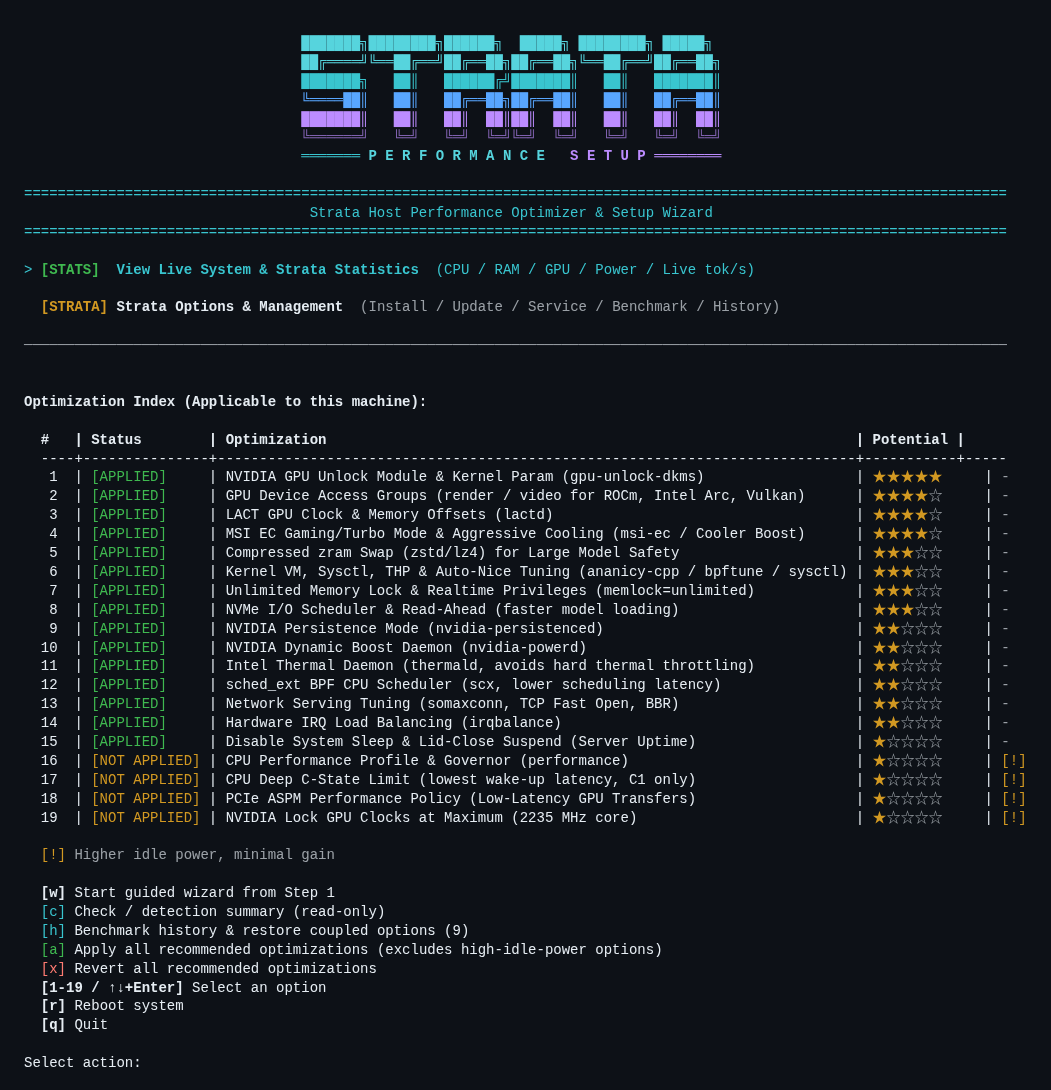
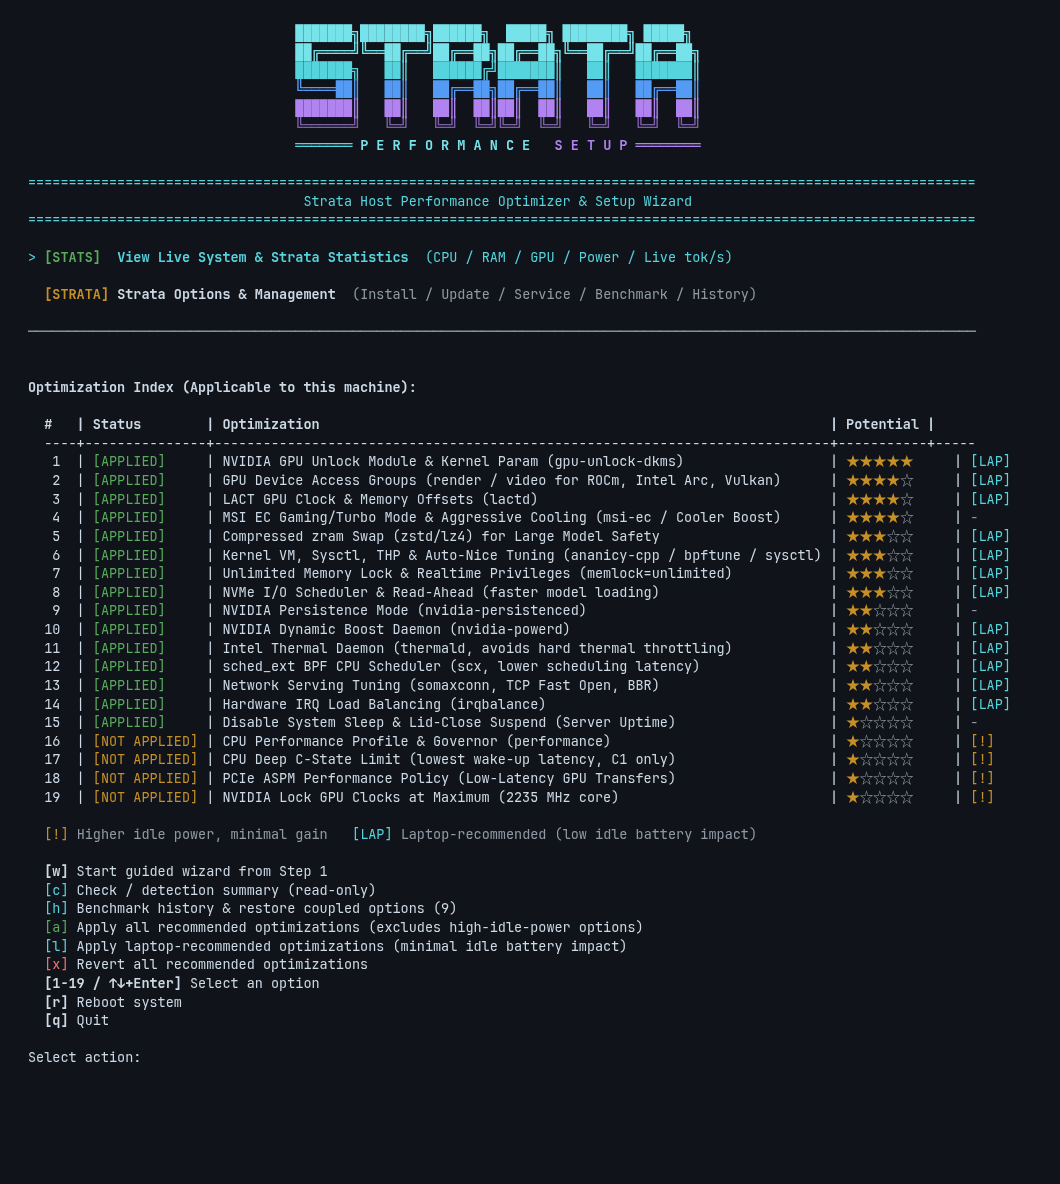
v1.3.3: Add laptop-recommended optimization mode ([l] / [LAP]) and out-of-scope revert prompt

diff --git a/documentation/using-the-wizard.md b/documentation/using-the-wizard.md
@@ -8,6 +8,7 @@ Once launched, the main index lists `[STATS]` (live system & Strata metrics), `[
 - Press `c` on the index to view the read-only **Check / detection summary** inside the TUI (same OS, hardware, Strata, and step-applicability summary as `--check`)
 - Open `[STRATA]` for Strata lifecycle management (`s1`–`s6` / `1`–`6`: Install, Update, Remove, Service, Benchmark, and Benchmark History) along with Latest, Previous, and Best benchmark summaries
 - Press `a` to **apply all recommended optimizations** for your hardware in one action (with confirmation; excludes Strata setup, experimental options, and minimal-gain/higher-idle-power options like CPU Performance and PCIe ASPM)
+- Press `l` (shown on laptops) to **apply laptop-recommended optimizations** (`[LAP]`) for minimal idle battery power impact and comfortable unplugged usage across any laptop vendor (additionally excludes sleep/lid-close masking, idle high-clock/persistence GPU settings, and platform/vendor performance profiles). When applying via `a` or `l`, any currently applied options outside that scope are listed so you can choose to revert them or leave them as is
 - Press `x` to **revert all recommended optimizations** in one action (with confirmation)
 - Press `u` (when shown) to open the **Update Strata** page, install a pending Strata update, and restart `strata.service`
 - Press `r` on the index to **reboot** the system (the wizard also prompts automatically whenever applying or reverting a change requires a reboot)
